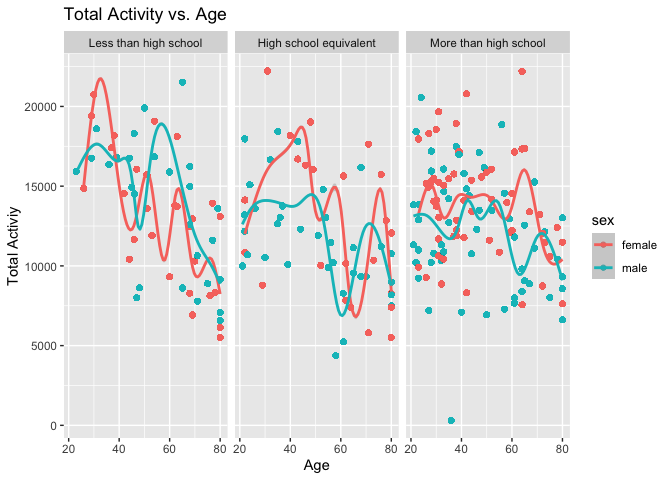
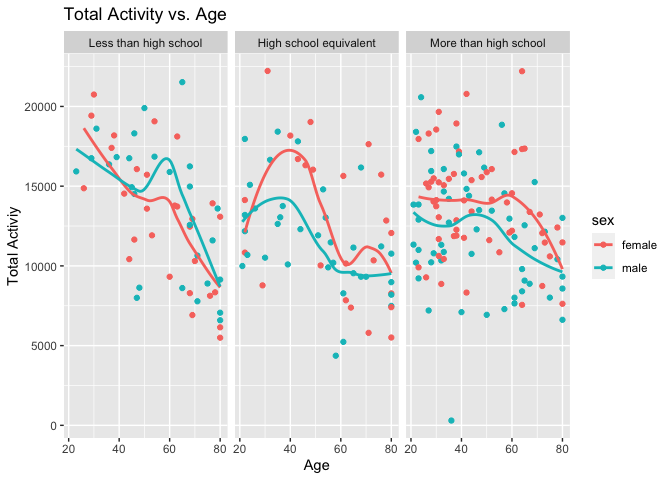
problem 3 pivot wider table

diff --git a/p8105_hw3_xt2288.md b/p8105_hw3_xt2288.md
@@ -281,22 +281,23 @@ nhanes_covar |>
   group_by(education, sex) |>
   summarize(
     n_obs = n()
+  ) |>
+  pivot_wider(
+    names_from = sex,
+    values_from = n_obs
   )
 ```
 
     ## `summarise()` has grouped output by 'education'. You can override using the
     ## `.groups` argument.
 
-    ## # A tibble: 6 × 3
+    ## # A tibble: 3 × 3
     ## # Groups:   education [3]
-    ##   education              sex    n_obs
-    ##   <fct>                  <chr>  <int>
-    ## 1 Less than high school  female    28
-    ## 2 Less than high school  male      27
-    ## 3 High school equivalent female    23
-    ## 4 High school equivalent male      35
-    ## 5 More than high school  female    59
-    ## 6 More than high school  male      56
+    ##   education              female  male
+    ##   <fct>                   <int> <int>
+    ## 1 Less than high school      28    27
+    ## 2 High school equivalent     23    35
+    ## 3 More than high school      59    56
 
 There is no big different for the number of male and female in less than
 high school and more than high school levels. 1 more female in less than
@@ -308,9 +309,13 @@ education category
 
 ``` r
 nhanes_merge |>
-  group_by(SEQN, education, sex) |>
   ggplot(aes(x = education, y = age, color = sex)) + 
-  geom_boxplot()
+  geom_boxplot() +
+  labs(
+    title = "Age vs. Education by Sex",
+    x = "Education",
+    y = "Age"
+  )
 ```
 
 ![](p8105_hw3_xt2288_files/figure-gfm/unnamed-chunk-16-1.png)<!-- --> In
@@ -325,9 +330,10 @@ men to women and have separate panels for each education level.
 nhanes_merge |>
   group_by(SEQN) |>
   mutate(total_act = sum(MIMS_Value)) |>
+  filter(minute == "min1") |>
   ggplot(aes(x = age, y = total_act, color = sex)) +
   geom_point() +
-  geom_smooth() +
+  geom_smooth(se = FALSE) +
   facet_grid(. ~ education) +
   labs(
     title = "Total Activity vs. Age",
@@ -336,32 +342,36 @@ nhanes_merge |>
   )
 ```
 
-    ## `geom_smooth()` using method = 'gam' and formula = 'y ~ s(x, bs = "cs")'
+    ## `geom_smooth()` using method = 'loess' and formula = 'y ~ x'
 
 ![](p8105_hw3_xt2288_files/figure-gfm/unnamed-chunk-17-1.png)<!-- -->
-The total activity decreases as the age increases for both men and
-women. In less than high school education level, women has a higher
-total activity around age 32, and men has a higher activity around age
-58. In the high school equivalent level, women has a higher total
-acitivity before age 50. After that age, men and women have the same
-trend. In more than high school level, men and women have about the same
-trend, except for age about 65 where female has a much higher total
+The total activity decreases as the age increases for both men and women
+in all education levels. In less than high school education level, women
+has a higher total activity before 40, and men has a higher activity
+after 40. In the high school equivalent level, women has a higher total
+activity. In more than high school level, female also has ahigher total
 activity.
 
-Accelerometer data allows the inspection activity over the course of the
-day. Make a three-panel plot that shows the 24-hour activity time
-courses for each education level and use color to indicate sex. Describe
-in words any patterns or conclusions you can make based on this graph
+a three-panel plot that shows the 24-hour activity time courses for each
+education level and color to indicate sex. Describe in words any
+patterns or conclusions you can make based on this graph
 
 ``` r
 nhanes_merge |>
+  mutate(minute = str_remove_all(minute, "min"),
+         minute = as.numeric(minute)) |>
+  arrange(minute) |>
   ggplot(aes(x = minute, y = MIMS_Value, color = sex)) +
   geom_point(alpha = 0.5) +
   geom_smooth(se = FALSE) +
-  facet_wrap( ~ education, nrow = 2) +
-  theme_minimal()
+  facet_grid( ~ education) +
+  labs(
+    title = "MIMS_Value vs. Minute by Sex",
+    x = "Minute",
+    y = "MIMS Value"
+  )
 ```
 
-    ## `geom_smooth()` using method = 'loess' and formula = 'y ~ x'
+    ## `geom_smooth()` using method = 'gam' and formula = 'y ~ s(x, bs = "cs")'
 
 ![](p8105_hw3_xt2288_files/figure-gfm/unnamed-chunk-18-1.png)<!-- -->
